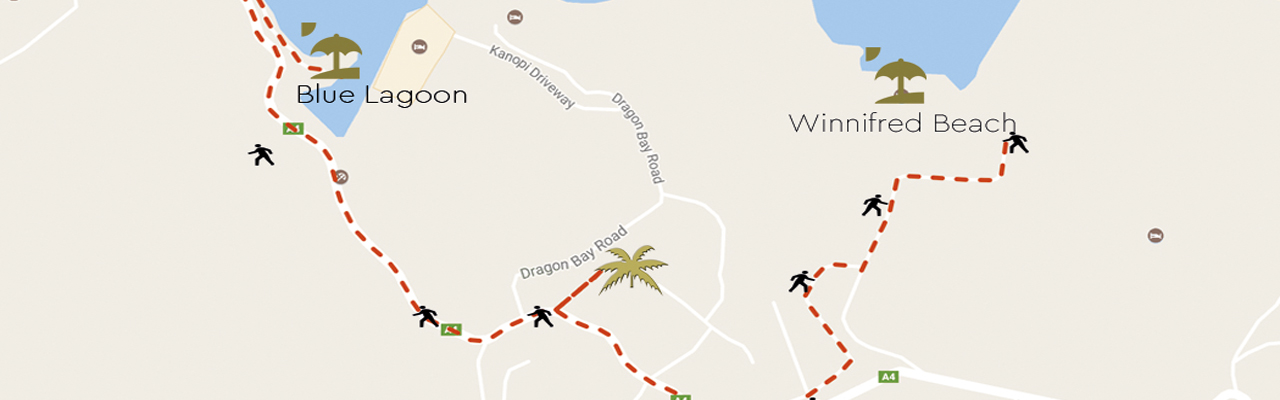
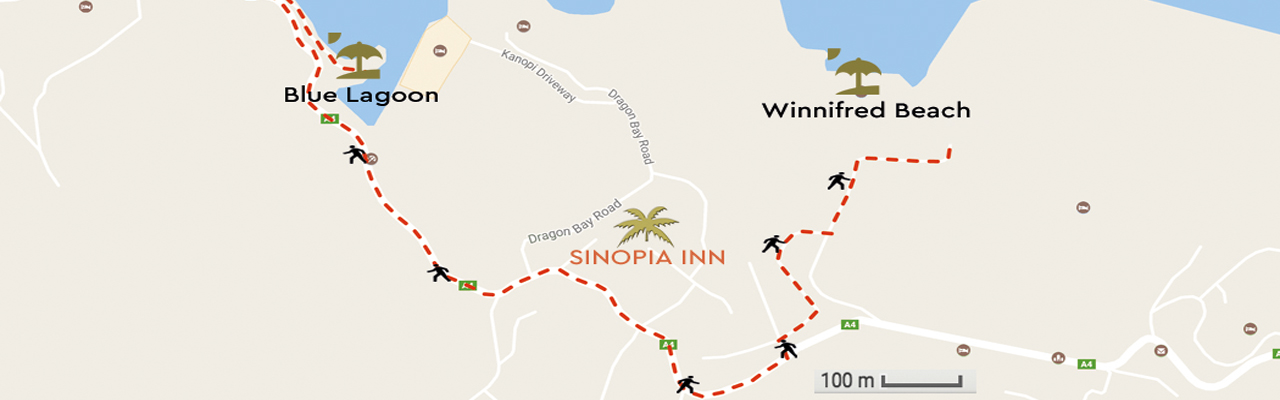
UPDATES
UPDATES

diff --git a/public/testmap.html b/public/testmap.html
@@ -30,7 +30,7 @@
         // and the name to be displayed on the map type control.
         var styledMapType = new google.maps.StyledMapType(
 
-          /*[
+          [
   {
     "featureType": "poi.business",
     "elementType": "labels.text",
@@ -40,8 +40,7 @@
       }
     ]
   }
-]*/
-            [
+],/*           [
   {
     "elementType": "geometry",
     "stylers": [
@@ -264,7 +263,8 @@
       }
     ]
   }
-],
+],*/
+ 
             {name: 'Sinopia_Inn'});
 
 
@@ -304,6 +304,8 @@
         var map = new google.maps.Map(document.getElementById('map'), {
           center: {lat:18.166518,lng:-76.380669},
           zoom: 11,
+          scaleControl: true,
+       disableDefaultUI: true,
           mapTypeControlOptions: {
             mapTypeIds: ['roadmap', 'satellite', 'hybrid', 'terrain',
                     'Sinopia_Inn']
@@ -326,11 +328,11 @@
 
 
 directionsService.route({
-          origin: {lat:18.170328,lng: -76.385918},  // Haight.
-          destination: {lat:18.169087,lng: -76.373850},  // Ocean Beach.
-          waypoints: [{
-            location:new google.maps.LatLng(18.166630, -76.381253),
-          stopover:false}],  optimizeWaypoints: true,
+          origin: {lat:18.170328,lng: -76.385918}, 
+          destination: {lat:18.169087,lng: -76.373850},
+        /*  waypoints: [{
+            location:new google.maps.LatLng(18.165973, -76.381959),
+          stopover:false}],  optimizeWaypoints: true,*/
           travelMode: google.maps.TravelMode[selectedMode]
         }, function(response, status) {
           if (status == 'OK') {
